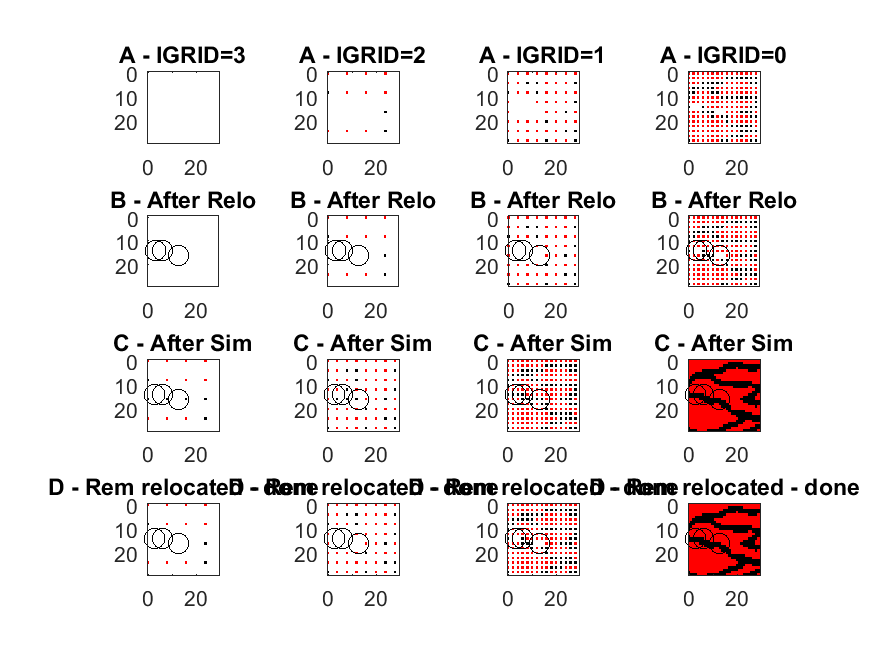
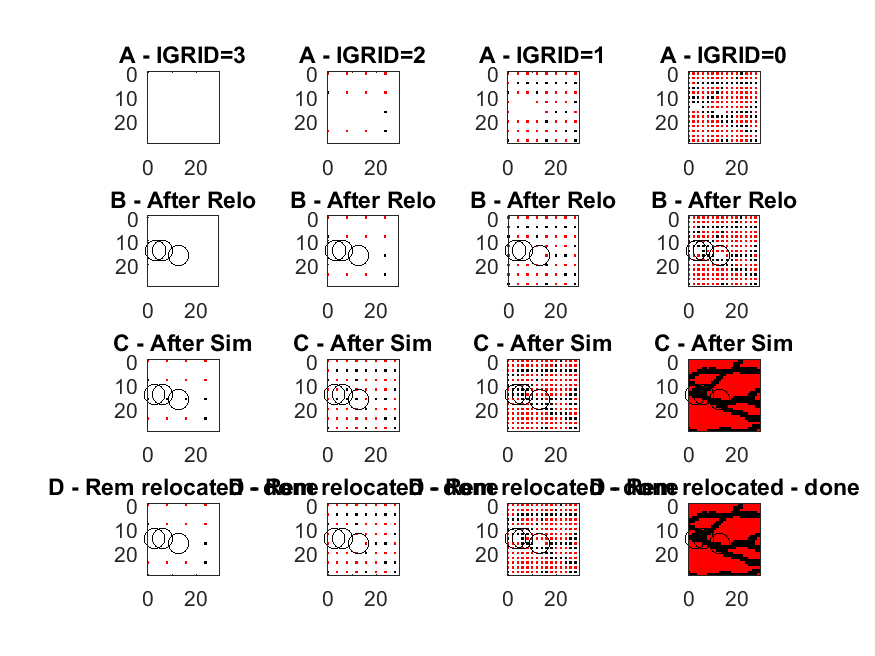
relocation

diff --git a/examples/soft_as_hard/ex_hard_as_soft.m b/examples/soft_as_hard/ex_hard_as_soft.m
@@ -22,7 +22,7 @@ O.template_size=[10 10 1];
 O.template_size=[7 7 1];
 O.clean = 1;
 
-O.exe_root = 'E:\Users\tmh\RESEARCH\PROGRAMMING\GITHUB\MPSLIB\msvc2017\x64\Release';
+%O.exe_root = 'E:\Users\tmh\RESEARCH\PROGRAMMING\GITHUB\MPSLIB\msvc2017\x64\Release';
 
 O.shuffle_simulation_grid=2;
 O.entropyfactor_simulation_grid=100000;
@@ -41,8 +41,8 @@ O.filename_parameter='mps_snesim_mul.txt';
 O.debug=0;
 O.n_real=100;
 O.n_multiple_grids=2;
-O.template_size=[3 3 1];
-[r,Oo]=mps_cpp(TI,SIM,O);
+O.template_size=[5 5 1];
+[r,Oo]=mps_cpp_thread(TI,SIM,O);
 close all;
 mps_cpp_plot(r,Oo,1);
 figure(2);
